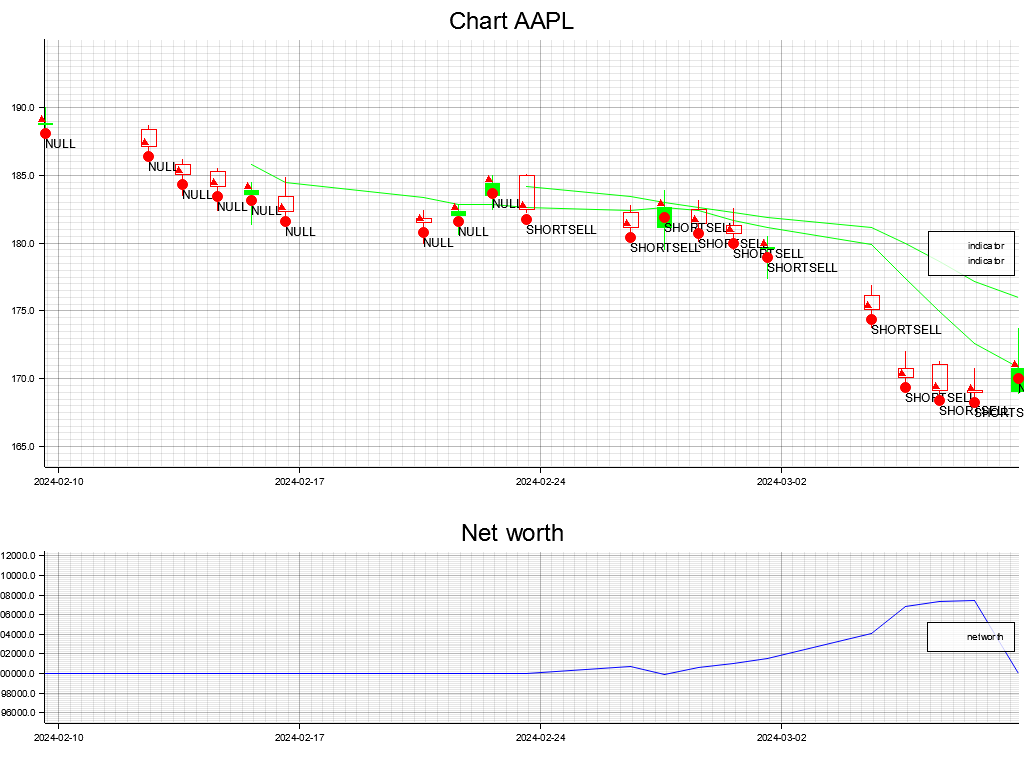
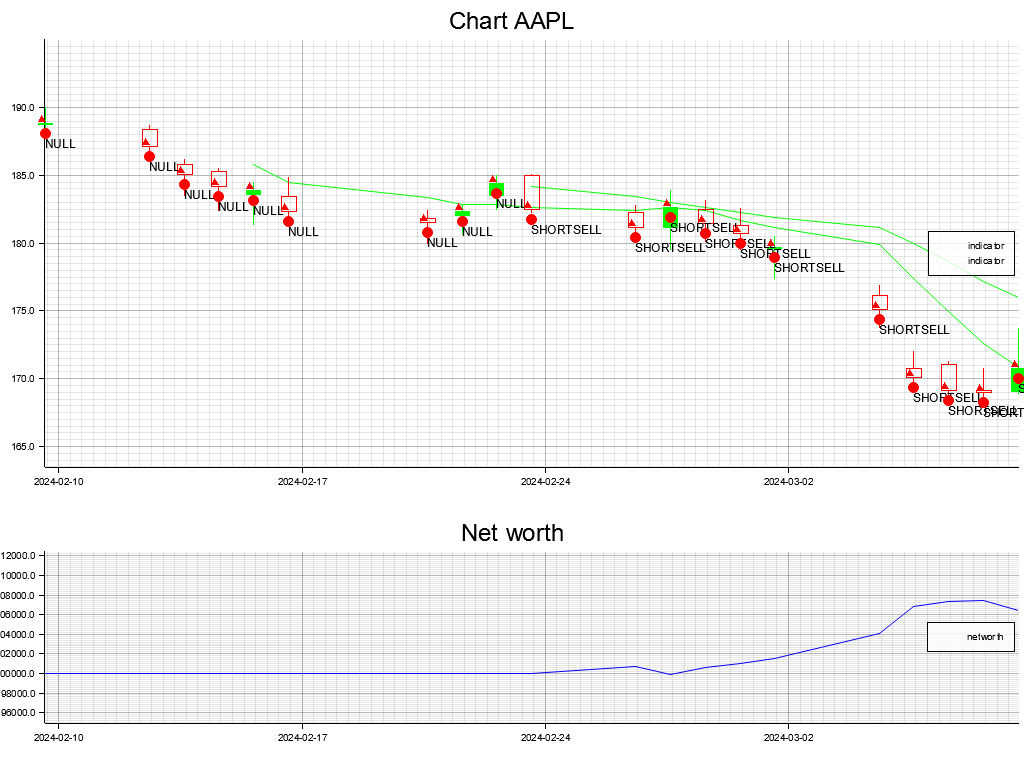
up to 2 indicators into Backtest csv

diff --git a/src/backtester.rs b/src/backtester.rs
@@ -82,7 +82,7 @@ impl Backtest{
         let mut stance = Stance::NULL;
         let mut previous_position = 0.;
         let mut previous_account = 100000.;
-        for i in 0..self.quotes.timestamps().len()-1{
+        for i in 0..self.quotes.timestamps().len(){
             match self.strategy.choices()[i]{
                 orders::Order::BUY=>{
                     if stance!=Stance::LONG{
@@ -124,6 +124,8 @@ impl Backtest{
             previous_position = self.position[i];
         }
     }
+    ///print Backtest to csv.
+    ///Indicator can only be 1 or 2 at the moment
     pub fn to_csv(&self)->Result<(), Box<dyn Error>>{
         let mut wrt = Writer::from_path("backtest.csv")?;
         //transpose data for ease of readability in CSV
@@ -132,16 +134,45 @@ impl Backtest{
         let close_t:Vec<Vec<String>> = self.quotes.close().iter().map(|e|vec![e.to_string()]).collect();
         let choices_t:Vec<Vec<String>> = self.strategy.choices().iter().map(|e|vec![e.to_string().to_string()]).collect();
 
+        let position_t:Vec<Vec<String>> = self.position.iter().map(|e|vec![e.to_string()]).collect();
+        let account_t:Vec<Vec<String>> = self.account.iter().map(|e|vec![e.to_string()]).collect();
+
 //        let indicator1_t:Vec<Vec<String>> = self.strategy.indicator().iter().next().unwrap().iter().next().unwrap().iter().map(|e|vec![e.to_string()]).collect();
 //        let indicator2_t:Vec<Vec<String>> = self.strategy.indicator().iter().skip(1).next().unwrap().iter().next().unwrap().iter().map(|e|vec![e.to_string()]).collect();
 //the below work but indicator2 is Option, so could break if only one, besides also need to manage n-case
         let indicator1_t:Vec<Vec<String>> = self.strategy.indicator().iter().flatten().next().unwrap().iter().map(|e|vec![e.to_string()]).collect();
-        let indicator2_t:Vec<Vec<String>> = self.strategy.indicator().iter().flatten().skip(1).next().unwrap().iter().map(|e|vec![e.to_string()]).collect();
+//        let indicator2_t:Vec<Vec<String>> = self.strategy.indicator().iter().flatten().skip(1).next().unwrap().iter().map(|e|vec![e.to_string()]).collect();
 
+        let indicator2_t:Option<Vec<Vec<String>>>;
+        match self.strategy.indicator(){
+            Some(innervec)=>{
+                if innervec.len() >=2{
+                    indicator2_t = Some(self.strategy.indicator().iter().flatten().skip(1).next().unwrap().iter().map(|e|vec![e.to_string()]).collect());
+                } else {indicator2_t = None}
+            }
+            None=>{
+                indicator2_t = None;
+            }
+        }
 
+/*
         wrt.serialize(("DATE","CLOSE","CHOICES","INDIC1","INDIC2"))?;
-        for ((((col1,col2),col3),col4),col5) in timestamps_t.iter().zip(close_t.iter()).zip(choices_t.iter()).zip(indicator1_t.iter()).zip(indicator2_t.iter()){
+        for ((((col1,col2),col3),col4),col5) in timestamps_t.iter().zip(close_t.iter()).zip(choices_t.iter()).zip(indicator1_t.iter()).zip(Some(indicator2_t).iter()){
             wrt.serialize((col1,col2,col3,col4,col5))?;
+        }*/
+        if let Some(ind2_t) = indicator2_t{
+            wrt.serialize(("DATE","CLOSE","CHOICES","INDIC1","INDIC2","ACCOUNT","POSITION"))?;
+            for ((((((col1,col2),col3),col4),col5),col6),col7) in timestamps_t.iter().zip(close_t.iter()).zip(choices_t.iter())
+                .zip(indicator1_t.iter()).zip(ind2_t.iter()).zip(account_t.iter()).zip(position_t.iter()){
+                wrt.serialize((col1,col2,col3,col4,col5,col6,col7))?;
+            } }
+        else
+        {
+            wrt.serialize(("DATE","CLOSE","CHOICES","INDIC1","ACCOUNT","POSITION"))?;
+            for (((((col1,col2),col3),col4),col5),col6) in timestamps_t.iter().zip(close_t.iter()).zip(choices_t.iter())
+                .zip(indicator1_t.iter()).zip(account_t.iter()).zip(position_t.iter()){
+                wrt.serialize((col1,col2,col3,col4,col5,col6))?;
+            }
         }
         wrt.flush()?;
         Ok(())

diff --git a/src/strategies.rs b/src/strategies.rs
@@ -87,7 +87,7 @@ pub fn simple_sma(quotes:Data, period:usize) ->Strategy{
     let indicator = Indicator{indicator:sma,quotes:quotes};
     let length = indicator.quotes.timestamps().len();
     let mut choices = vec![NULL;length];
-    for i in 0..length-1{
+    for i in 0..length{
         if indicator.indicator[i]!=-1.{
             if indicator.indicator[i]>=indicator.quotes.open()[i]{
                 choices[i] = BUY;
@@ -110,7 +110,7 @@ pub fn sma_cross(quotes:Data, short_period:usize, long_period:usize)->Strategy{
     let ind_long = Indicator{indicator:sma_long, quotes:quotes};
     let length = ind_short.quotes().timestamps().len();
     let mut choices = vec![NULL;length];
-    for i in 0..length-1{
+    for i in 0..length{
         if ind_long.indicator()[i]!=-1.{
             if ind_short.indicator()[i]>ind_long.indicator()[i]{choices[i]=BUY}
             else {choices[i]=SHORTSELL};

diff --git a/README.md b/README.md
@@ -22,6 +22,9 @@ let mut sma_cross_tester = Backtest::new(...)?;
 - report and chart multiple strategies at once and compare them
 - (TBC) rework the strategy definition to use only a function, if possible
 - implement error checking and lifetime of a Backtest object (linked to quotes?)
-
+- (TBC) GUI with parsing user input
+<BR>
 - check vs backtrader
 - correct buy at close
+- when order stays for different period, position should be incremented,
+or otherwise implement backtrader-style single orders
